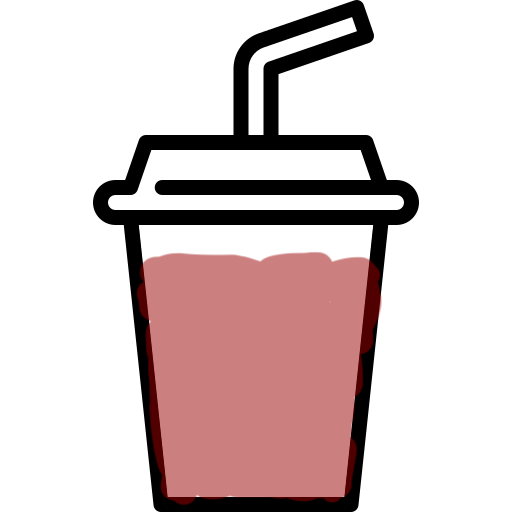
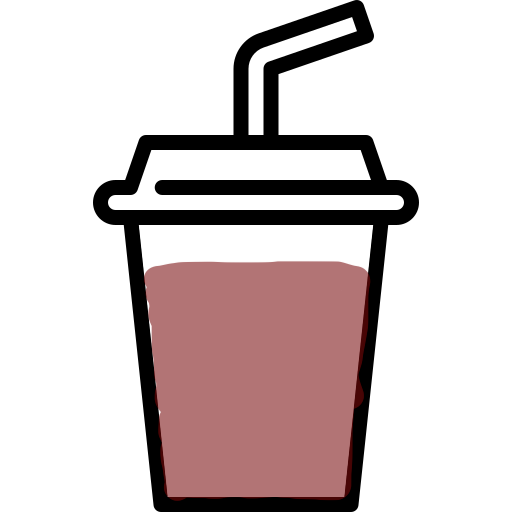
drink preview

Changed region(s): [[0.25, 0.4688, 0.75, 1.0]]

diff --git a/src/components/Customize/Customize.jsx b/src/components/Customize/Customize.jsx
@@ -1,8 +1,12 @@
 import Bottle from "../../assets/Bottle.png";
 import Boba from "../../assets/Boba.png";
+import Secret from "../../assets/Secret.png";
 import Pudding from "../../assets/Pudding.png";
 import Blacktea from "../../assets/Blacktea.png";
-import AMilk from "../../assets/AMilk.png";
+import Greentea from "../../assets/Greentea.png";
+import Wulongtea from "../../assets/Wulongtea.png";
+import Milk from "../../assets/Milk.png";
+import ChocolateMilk from "../../assets/ChocolateMilk.png";
 import { motion } from "framer-motion";
 
 
@@ -15,7 +19,42 @@ export default function Customize({lineItem}) {
 
             <div style={{ position:"absolute"}}>
 
-
+                {lineItem.item.name === "Green Tea" && (
+                    <img
+                    src={Greentea}
+                    alt={Greentea}
+                    height="100%"
+                    width="100%"
+                    className="items"
+                    />
+                )}
+                {lineItem.item.name === "Chocolate Milk" && (
+                    <img
+                    src={ChocolateMilk}
+                    alt={ChocolateMilk}
+                    height="100%"
+                    width="100%"
+                    className="items"
+                    />
+                )}
+                {lineItem.item.name === "Wulong Tea" && (
+                    <img
+                    src={Wulongtea}
+                    alt={Wulongtea}
+                    height="100%"
+                    width="100%"
+                    className="items"
+                    />
+                )}
+                {lineItem.item.name === "Secret Gift" && (
+                    <img
+                    src={Secret}
+                    alt={Secret}
+                    height="100%"
+                    width="100%"
+                    className="items"
+                    />
+                )}
                 {lineItem.item.name === "Boba" && (
                     <img
                     src={Boba}
@@ -27,8 +66,8 @@ export default function Customize({lineItem}) {
                 )}
                 {lineItem.item.name === "Almond Milk" && (
                     <img
-                    src={AMilk}
-                    alt={AMilk}
+                    src={Milk}
+                    alt={Milk}
                     height="100%"
                     width="100%"
                     className="items"

diff --git a/seed.js b/seed.js
@@ -11,19 +11,28 @@ const Item = require('./models/item');
   const categories = await Category.create([
     {name: 'Milk', sortOrder: 10},
     {name: 'Tea', sortOrder: 20},
-    {name: 'Topping', sortOrder: 30},
-    {name: 'Extra', sortOrder: 40},
+    {name: 'Juice', sortOrder: 30},
+    {name: 'Topping', sortOrder: 40},
   ]);
 
   await Item.deleteMany({});
   const items = await Item.create([
-    { name: 'Chocolate Milk', category: categories[0], isAdd: false },
-    { name: 'Almond Milk', category: categories[0], isAdd: false },
-    { name: 'Black Tea', category: categories[1], isAdd: false },
-    { name: 'Wulong Tea', category: categories[1], isAdd: false },
-    { name: 'Green Tea', category: categories[1], isAdd: false },
-    { name: 'Boba', category: categories[2], isAdd: false },
-    { name: 'Pudding', category: categories[2], isAdd: false },
+    { name: 'Chocolate Milk', category: categories[0] },
+    { name: 'Fresh Milk', category: categories[0] },
+    { name: 'Coconut Milk', category: categories[0] },
+    { name: 'Soy Milk', category: categories[0] },
+    { name: 'Black Tea', category: categories[1] },
+    { name: 'Green Tea', category: categories[1] },
+    { name: 'Wulong Tea', category: categories[1] },
+    { name: 'Apple Juice', category: categories[2] },
+    { name: 'Orange Juice', category: categories[2] },
+    { name: 'Watermelon Juice', category: categories[2] },
+    { name: 'Grape Juice', category: categories[2] },
+    { name: 'Lychee Juice', category: categories[2] },
+    { name: 'Peach Juice', category: categories[2] },
+    { name: 'Boba', category: categories[3] },
+    { name: 'Pudding', category: categories[3] },
+    { name: 'Secret Gift', category: categories[3] }
     
 
   ]);

diff --git a/models/itemSchema.js b/models/itemSchema.js
@@ -3,7 +3,6 @@ const Schema = require('mongoose').Schema;
 const itemSchema = new Schema({
   name: { type: String, required: true },
   category: {type: Schema.Types.ObjectId, ref: 'Category'},
-  isAddOn: { type: Boolean, default: false },
 }, {
   timestamps: true
 });
